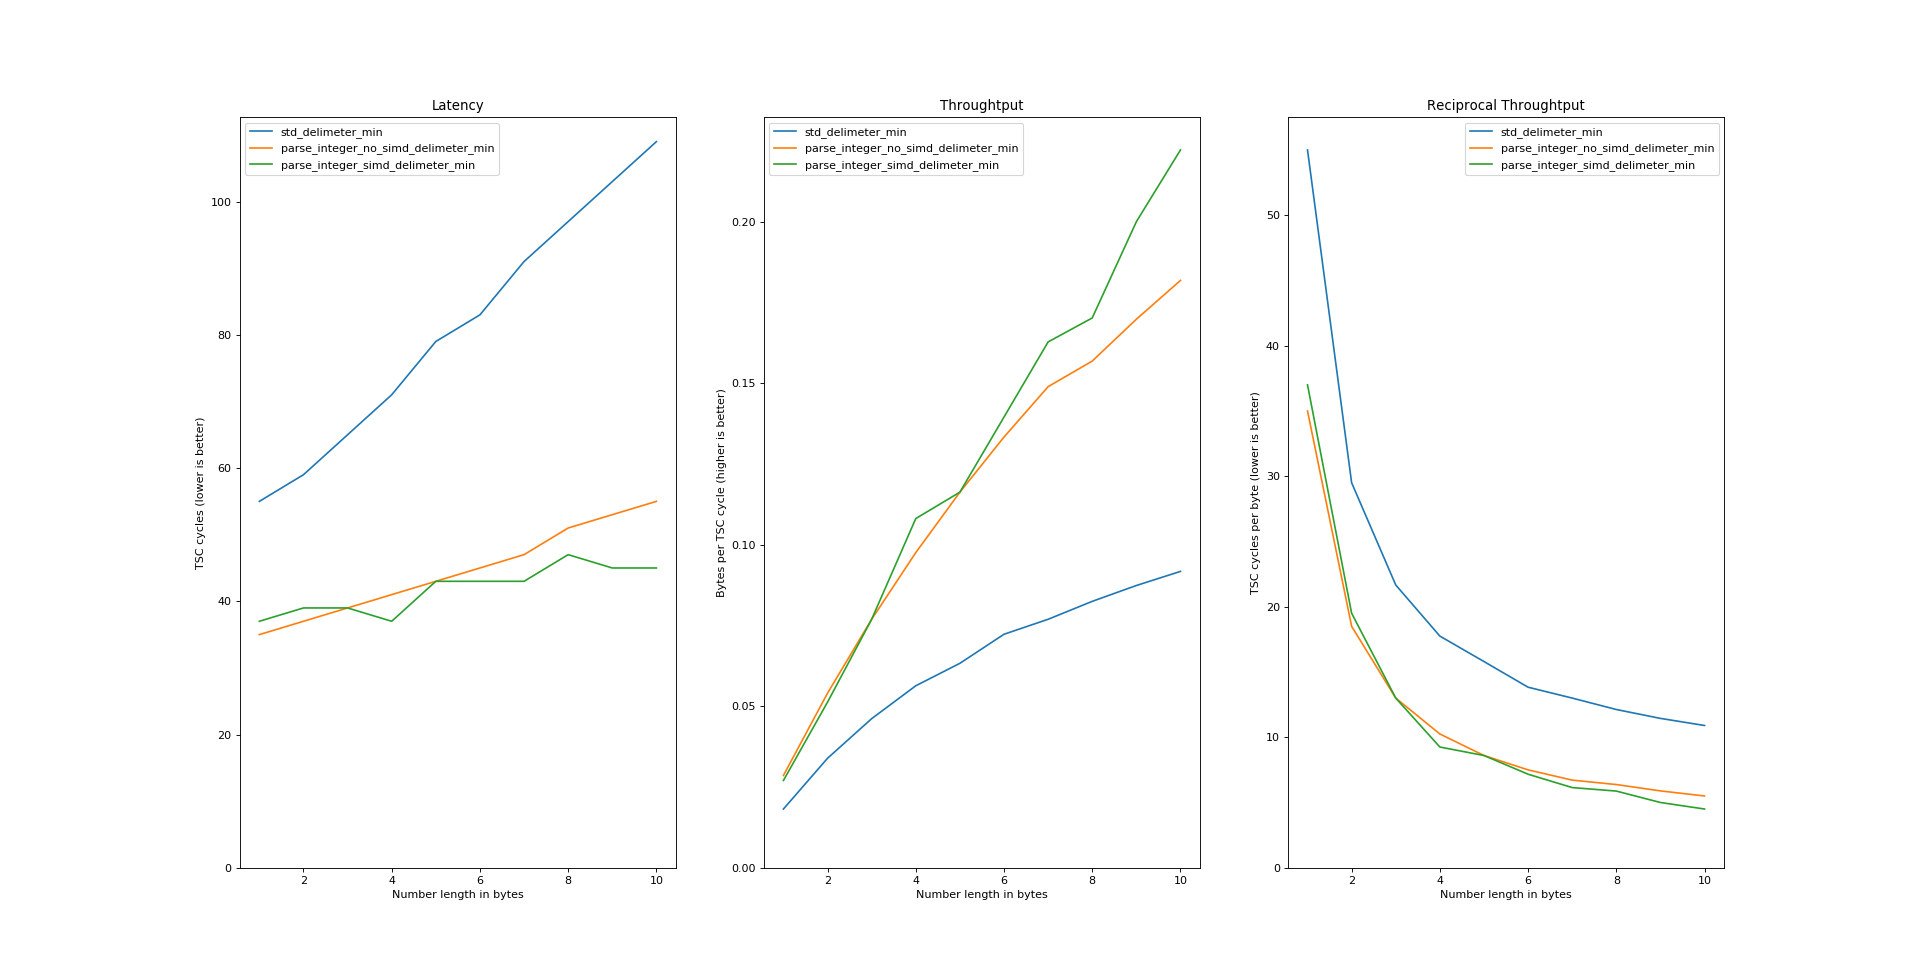
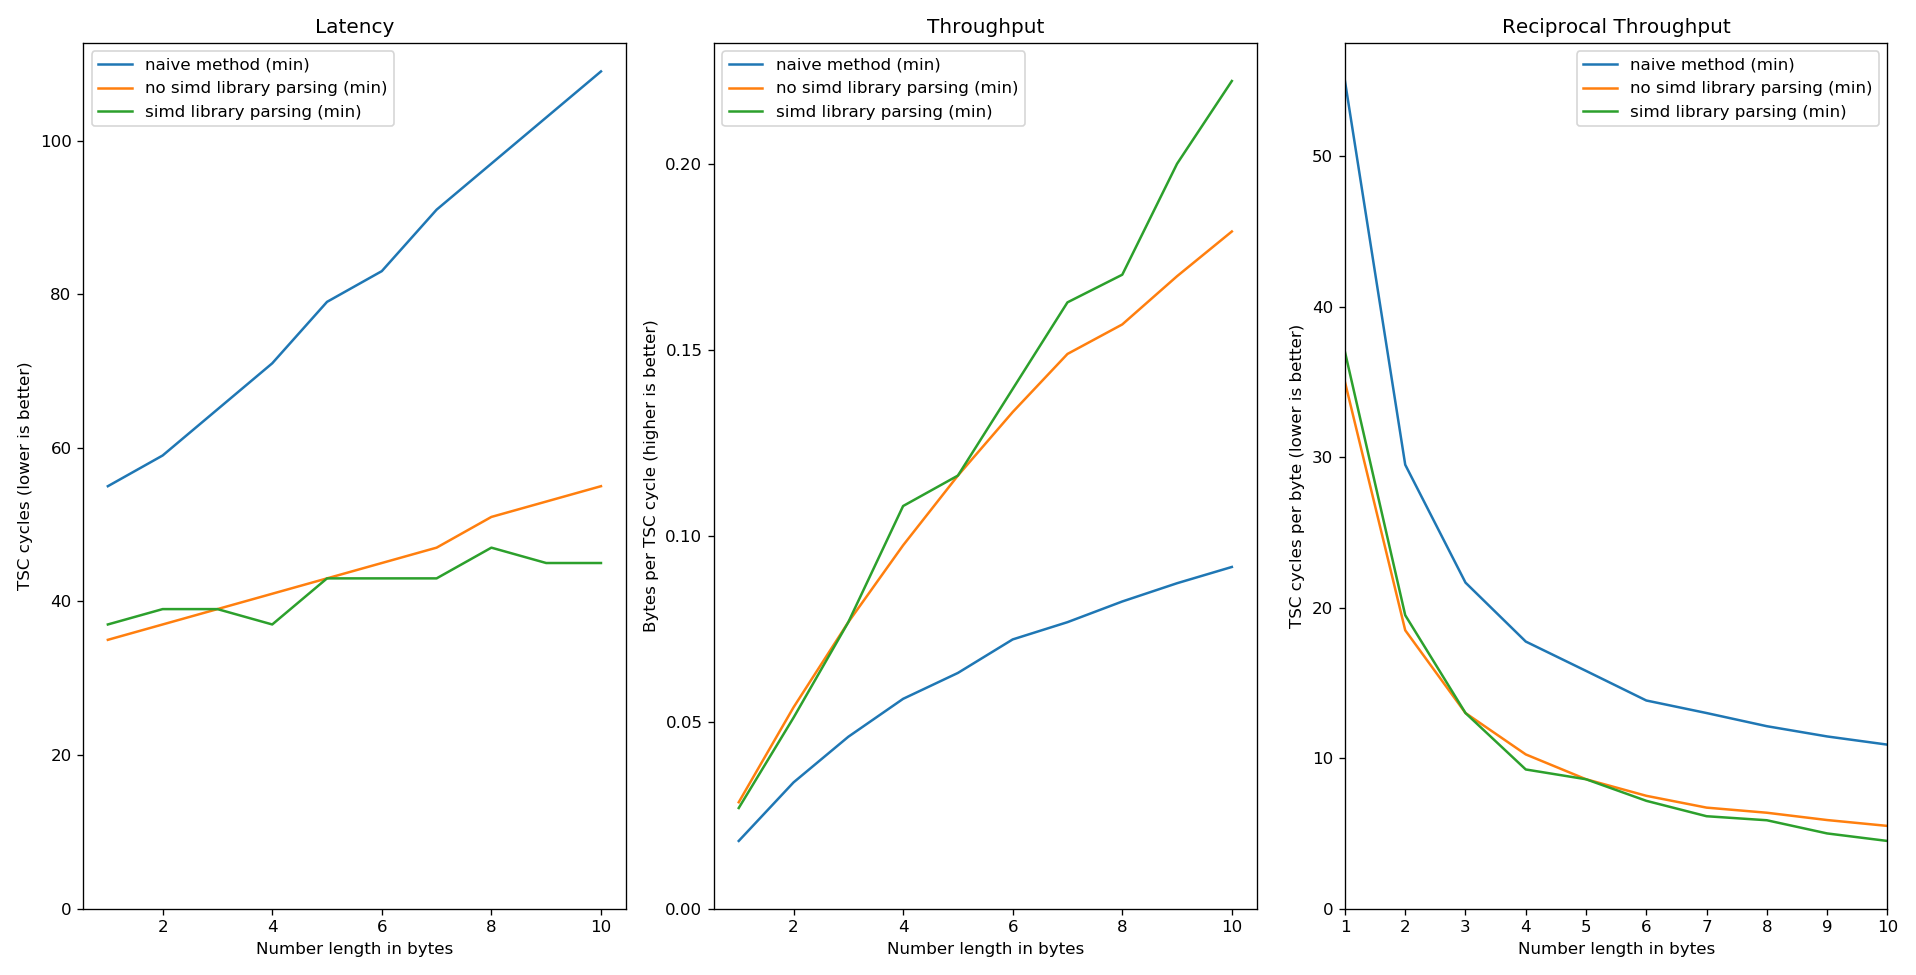
Generate better plots

diff --git a/plot.py b/plot.py
@@ -9,11 +9,12 @@ Generate benchmark plots from the given csv file
    - STAT   one of min, mean, max (default to min)
 """
 
-def set_tsc_cycle_ax(ax, df, y1, y2, y3=None):
-    ax.plot(df.index, df[y1], label=y1)
-    ax.plot(df.index, df[y2], label=y2)
+
+def set_tsc_cycle_ax(ax, df, y1, label1, y2, label2, y3=None, label3=None):
+    ax.plot(df.index, df[y1], label=label1)
+    ax.plot(df.index, df[y2], label=label2)
     if y3 is not None:
-        ax.plot(df.index, df[y3], label=y3)
+        ax.plot(df.index, df[y3], label=label3)
     ax.legend()
     ax.set_title("Latency")
     ax.set_ylabel("TSC cycles (lower is better)")
@@ -21,77 +22,94 @@ def set_tsc_cycle_ax(ax, df, y1, y2, y3=None):
     ax.set_ylim(0)
 
 
-def set_throughtput_ax(ax, df, y1, y2, y3=None):
-    ax.plot(df.index, df.index / df[y1], label=y1)
-    ax.plot(df.index, df.index / df[y2], label=y2)
+def set_throughput_ax(ax, df, y1, label1, y2, label2, y3=None, label3=None):
+    ax.plot(df.index, df.index / df[y1], label=label1)
+    ax.plot(df.index, df.index / df[y2], label=label2)
     if y3 is not None:
-        ax.plot(df.index, df.index / df[y3], label=y3)
+        ax.plot(df.index, df.index / df[y3], label=label3)
     ax.legend()
-    ax.set_title("Throughtput")
+    ax.set_title("Throughput")
     ax.set_ylabel("Bytes per TSC cycle (higher is better)")
     ax.set_xlabel("Number length in bytes")
     ax.set_ylim(0)
 
 
-def set_reciprocal_throughtput_ax(ax, df, y1, y2, y3=None):
-    ax.plot(df.index, df[y1] / df.index, label=y1)
-    ax.plot(df.index, df[y2] / df.index, label=y2)
+def set_reciprocal_throughput_ax(ax,
+                                 df,
+                                 y1,
+                                 label1,
+                                 y2,
+                                 label2,
+                                 y3=None,
+                                 label3=None):
+    ax.plot(df.index, df[y1] / df.index, label=label1)
+    ax.plot(df.index, df[y2] / df.index, label=label2)
     if y3 is not None:
-        ax.plot(df.index, df[y3] / df.index, label=y3)
+        ax.plot(df.index, df[y3] / df.index, label=label3)
     ax.legend()
-    ax.set_title("Reciprocal Throughtput")
+    ax.set_title("Reciprocal Throughput")
     ax.set_ylabel("TSC cycles per byte (lower is better)")
     ax.set_xlabel("Number length in bytes")
     ax.set_ylim(0)
 
 
-def plot_benchmark(df, y1, y2, y3=None):
-    fig, (ax1, ax2, ax3) = plt.subplots(1, 3, dpi=80)
-    set_tsc_cycle_ax(ax1, df, y1, y2, y3)
-    set_throughtput_ax(ax2, df, y1, y2, y3)
-    set_reciprocal_throughtput_ax(ax3, df, y1, y2, y3)
- 
+def plot_benchmark(df, y1, label1, y2, label2, y3=None, label3=None):
+    fig, (ax1, ax2, ax3) = plt.subplots(1, 3, dpi=120)
+    set_tsc_cycle_ax(ax1, df, y1, label1, y2, label2, y3, label3)
+    set_throughput_ax(ax2, df, y1, label1, y2, label2, y3, label3)
+    set_reciprocal_throughput_ax(ax3, df, y1, label1, y2, label2, y3, label3)
+
+
 def print_usage():
     print(USAGE_STR, file=sys.stderr)
+
 
 def get_column_to_plot(stat):
     if stat.lower() not in ("min", "mean", "max"):
         print_usage()
-        print("ERROR: the provided statistic is not available.\n"
-              "Please, choose one between min, mean, max.",
-              file=sys.stderr)
+        print(
+            "ERROR: the provided statistic is not available.\n"
+            "Please, choose one between min, mean, max.",
+            file=sys.stderr)
         exit(1)
-    
-    return f"std_{stat.lower()} parse_integer_no_simd_{stat.lower()} std_delimeter_{stat.lower()} parse_integer_no_simd_delimeter_{stat.lower()} parse_integer_simd_delimeter_{stat.lower()}".split()
+
+    return f"std_{stat.lower()} parse_integer_no_simd_{stat.lower()} std_delimeter_{stat.lower()} parse_integer_no_simd_delimeter_{stat.lower()} parse_integer_simd_delimeter_{stat.lower()}".split(
+    )
+
 
 def main():
     argv_len = len(sys.argv)
     if argv_len < 2:
         print_usage()
         print("Error: no input file provided", file=sys.stderr)
-        exit(1)
+        sys.exit(1)
     csv = sys.argv[1]
     column_to_plot = []
+    task = "min"
     if argv_len == 3:
-        column_to_plot = get_column_to_plot(sys.argv[2])
-    else:
-        column_to_plot = get_column_to_plot("min")
+        task = sys.argv[2]
+    column_to_plot = get_column_to_plot(task)
 
     df = pd.read_csv(csv, index_col=0)
     plot_benchmark(
         df,
         column_to_plot[0],
+        f"naive method ({task})",
         column_to_plot[1],
+        f"no simd library parsing ({task})",
     )
     plot_benchmark(
         df,
         column_to_plot[2],
+        f"naive method ({task})",
         column_to_plot[3],
+        f"no simd library parsing ({task})",
         column_to_plot[4],
+        f"simd library parsing ({task})",
     )
+    plt.tight_layout()
     plt.show()
 
 
 if __name__ == "__main__":
     main()
-
